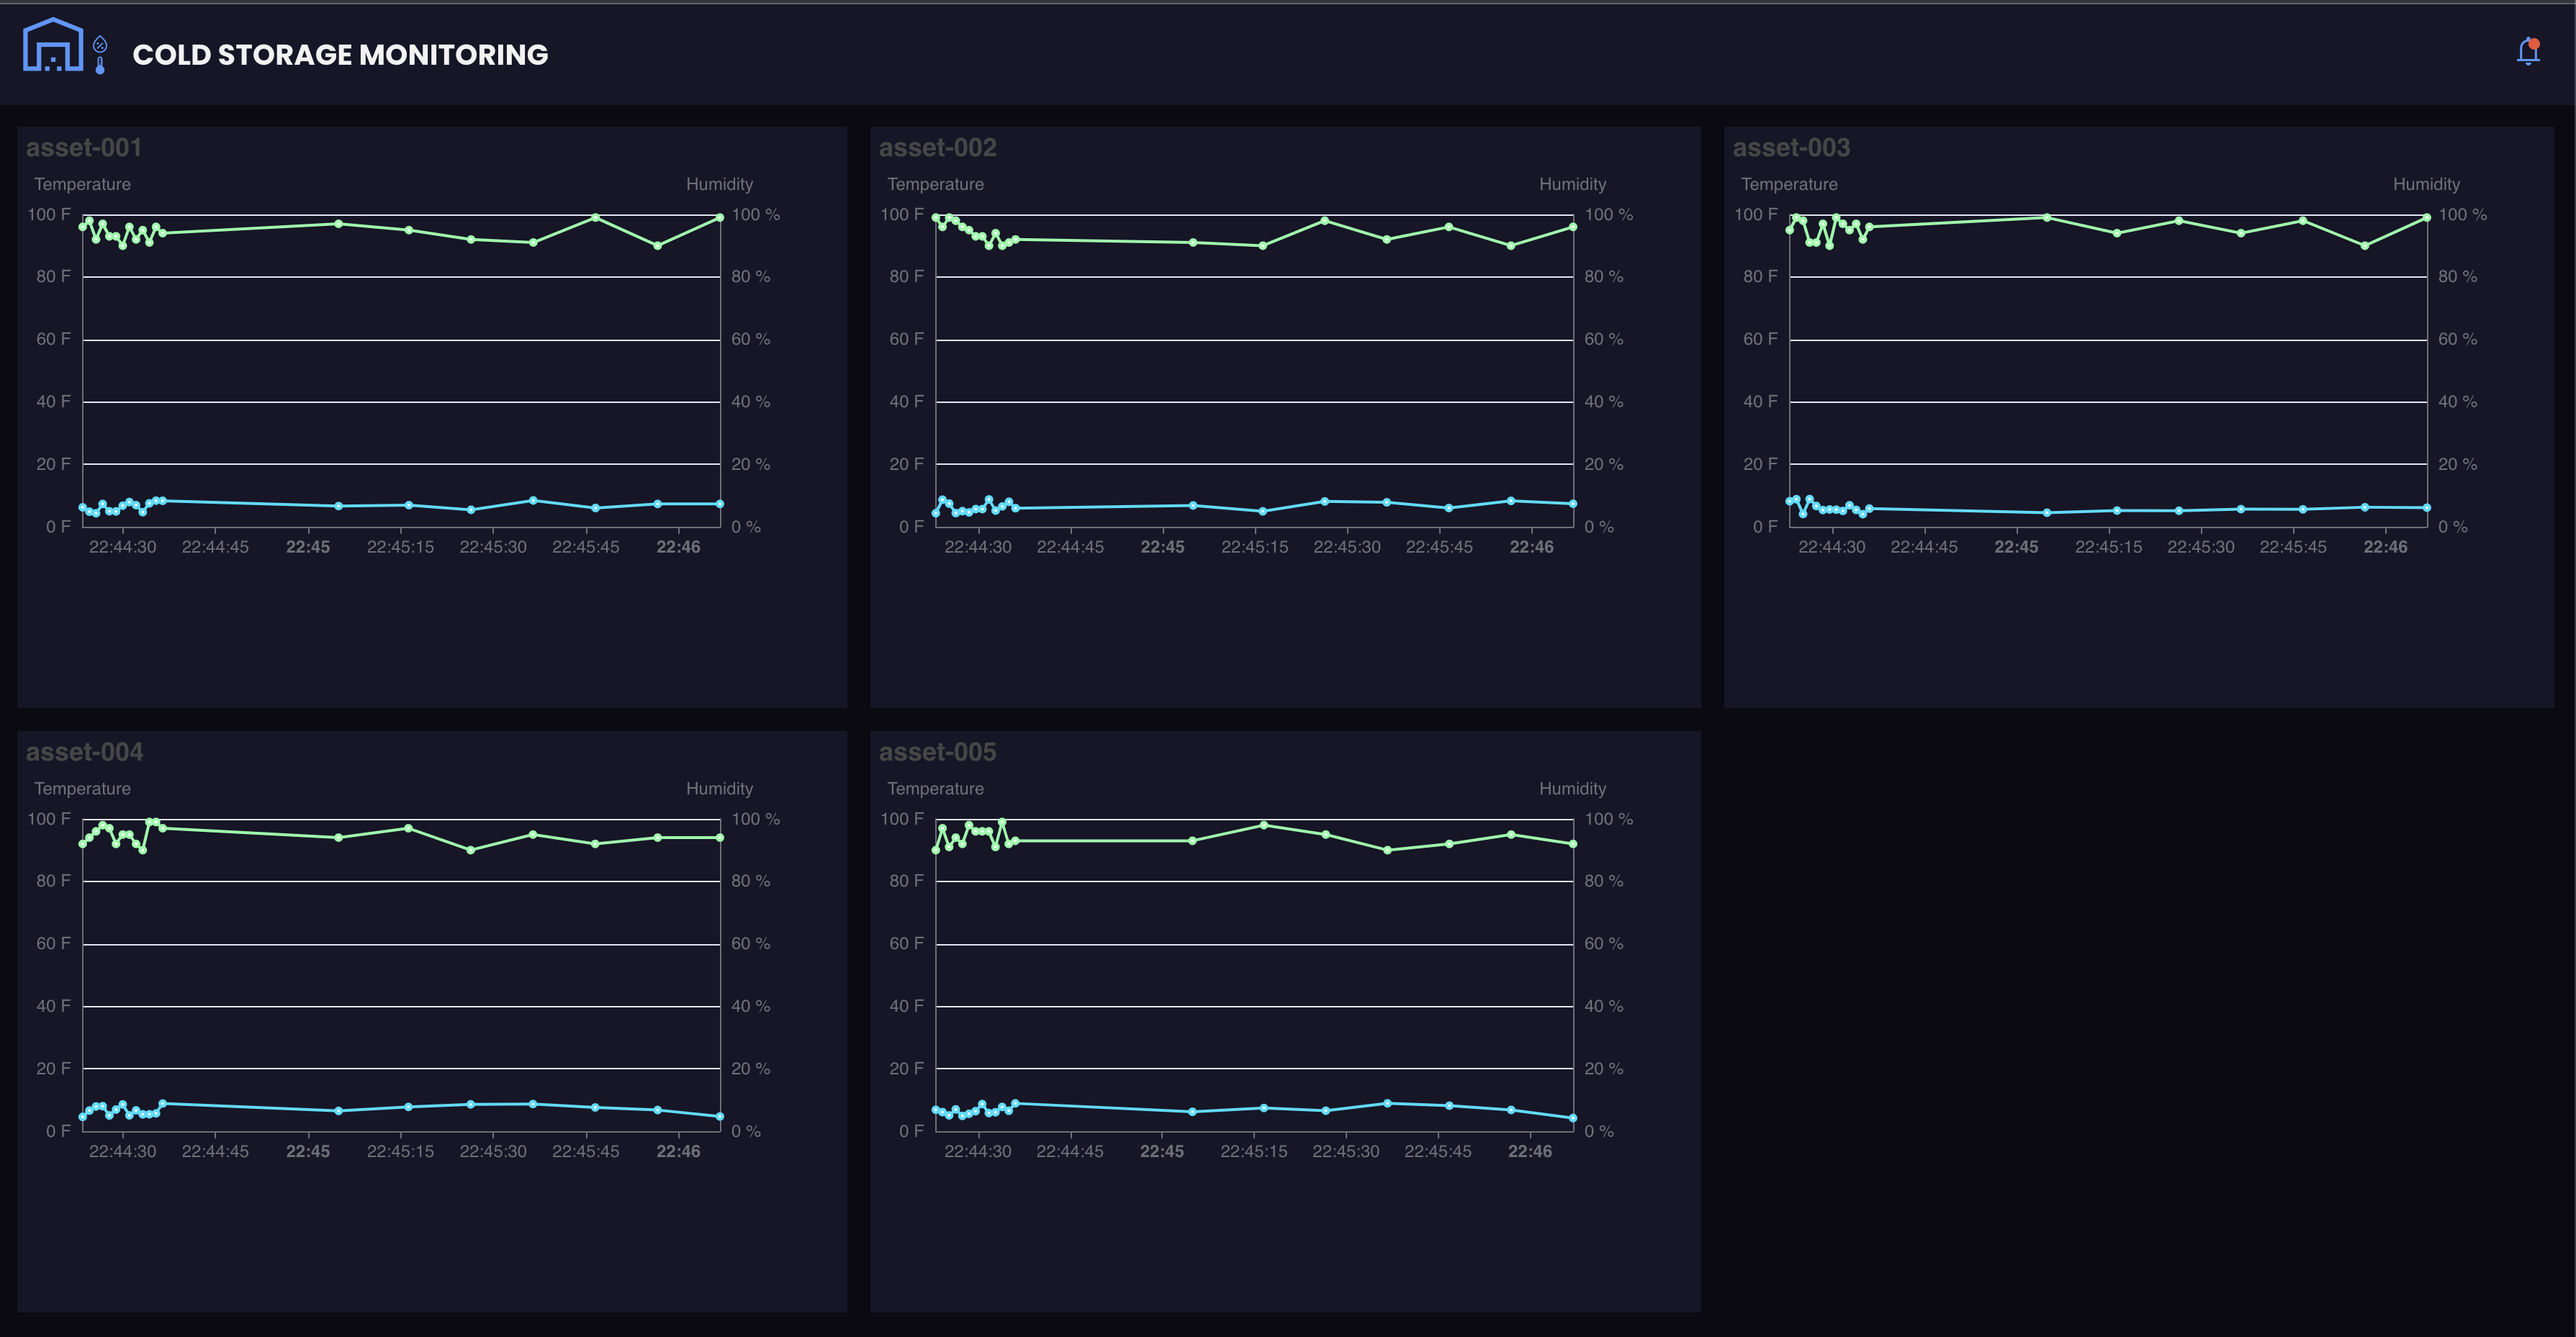
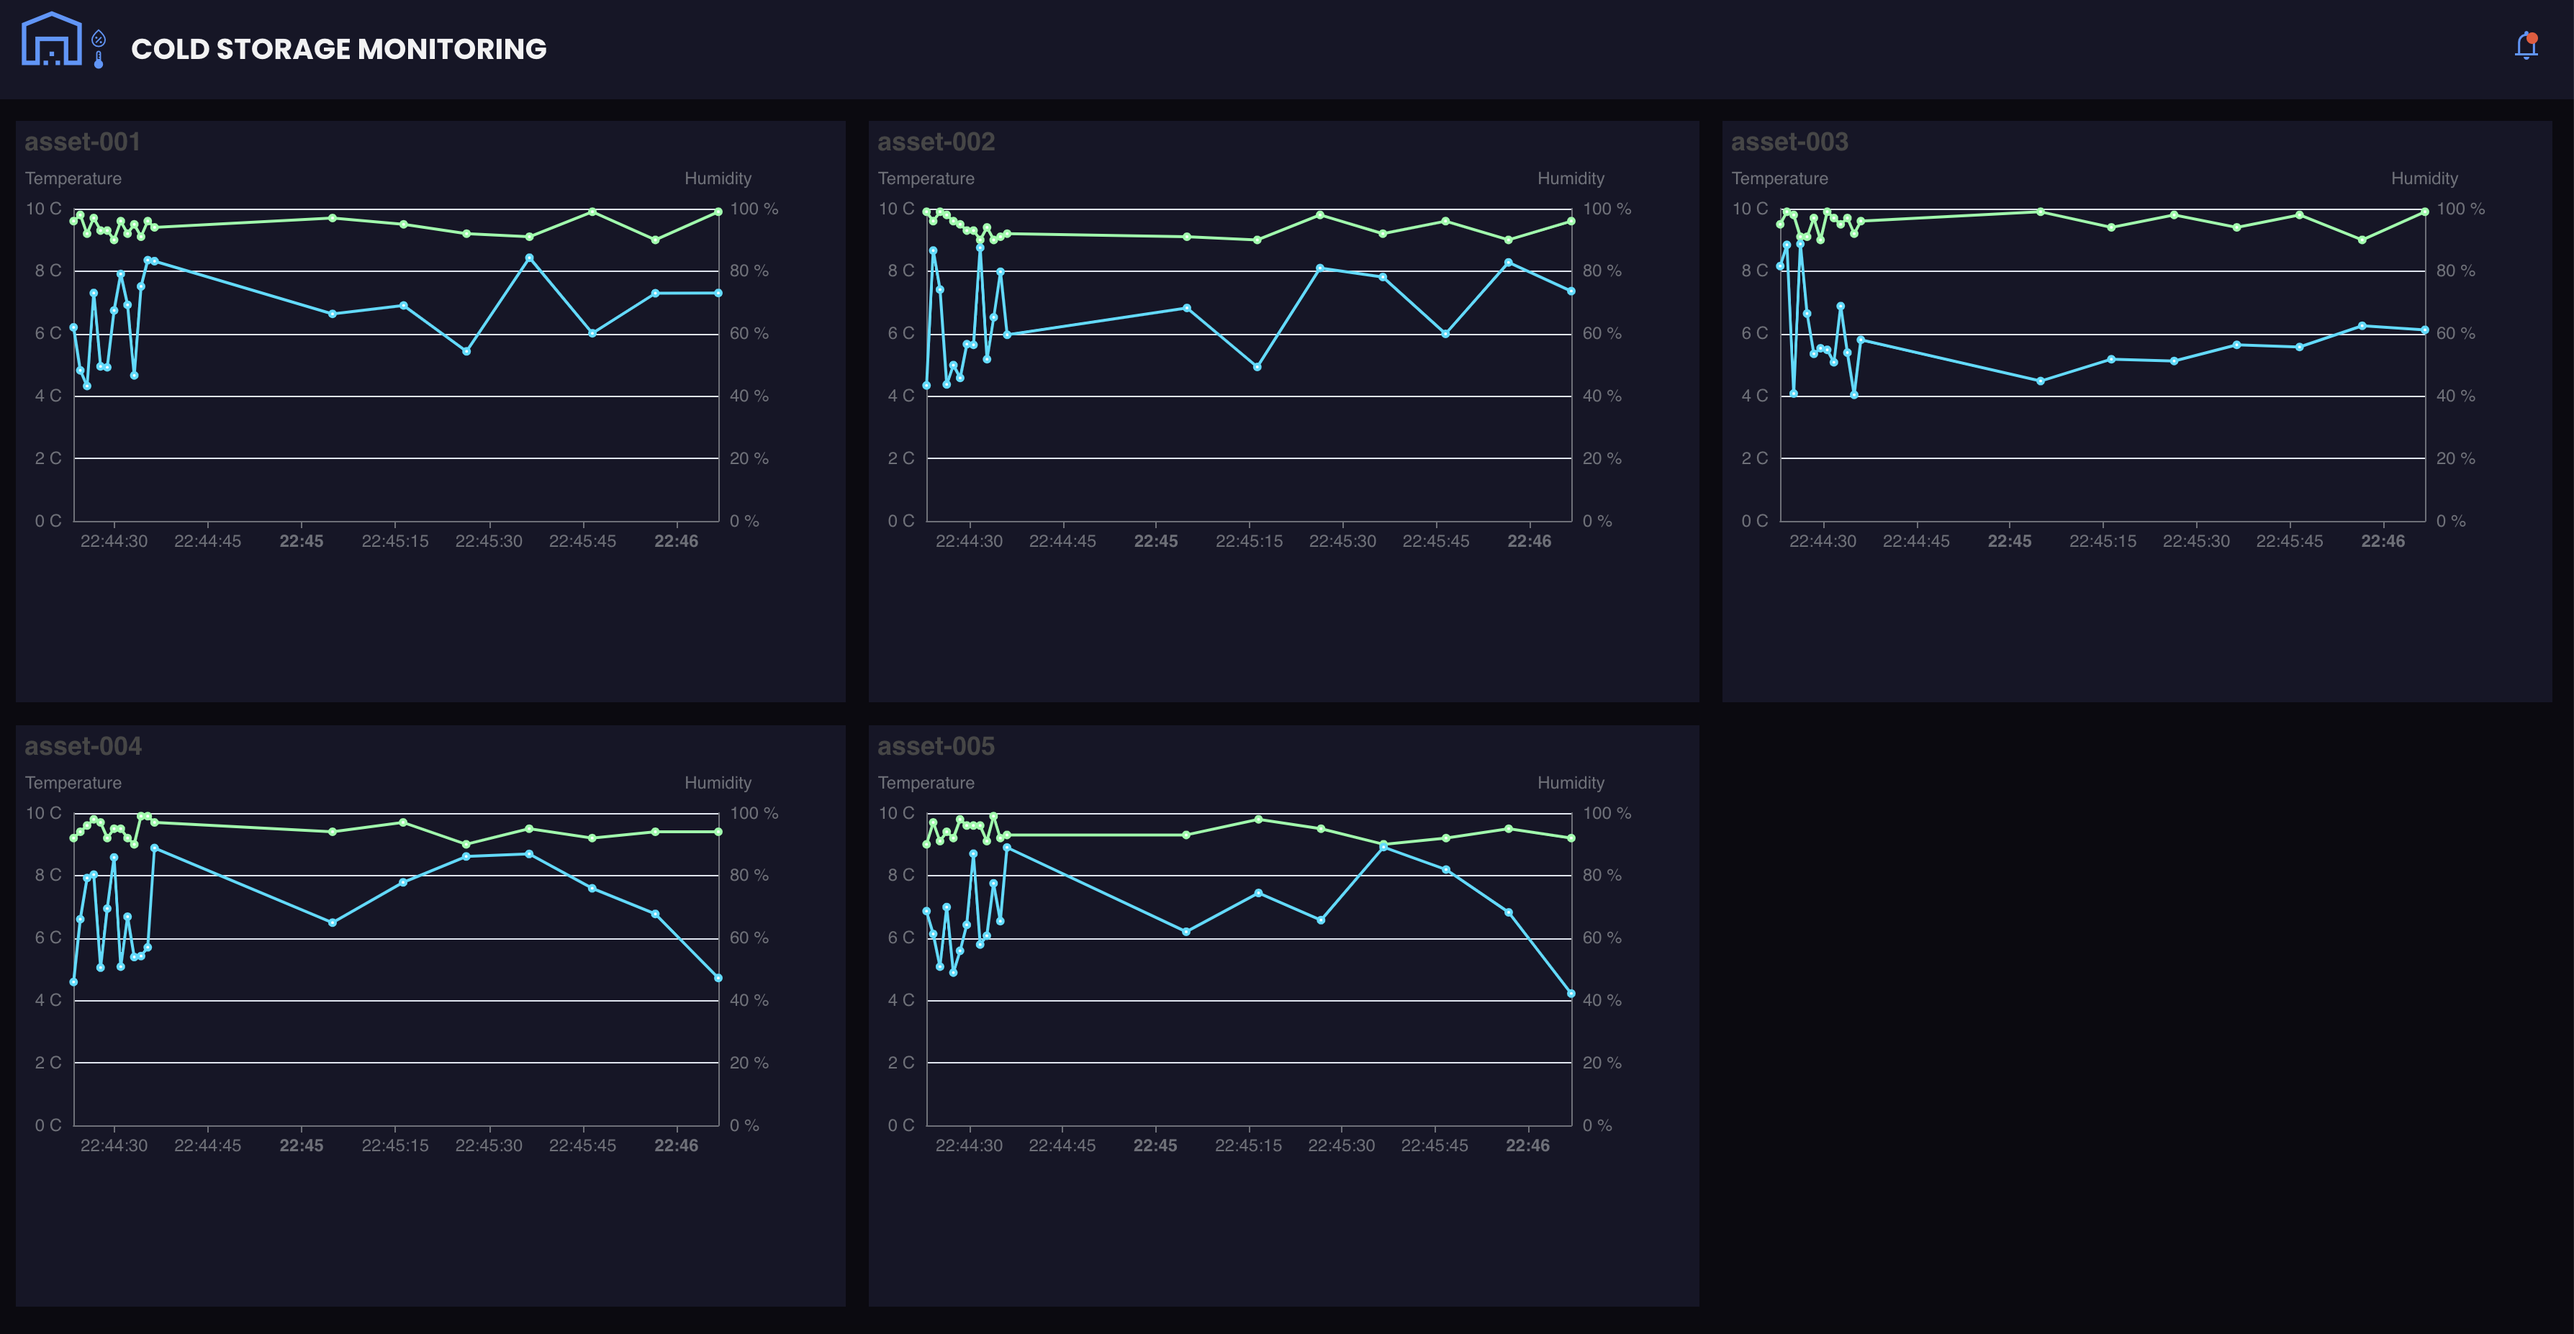
Image change

diff --git a/cold-storage-monitoring/src/components/Chart/Chart.tsx b/cold-storage-monitoring/src/components/Chart/Chart.tsx
@@ -61,7 +61,7 @@ const Chart: React.FC<ChartProps> = (props) => {
         },
         axisLabel: {
           show: true,
-          formatter: '{value} F',
+          formatter: '{value} C',
         },
       },
     ],
